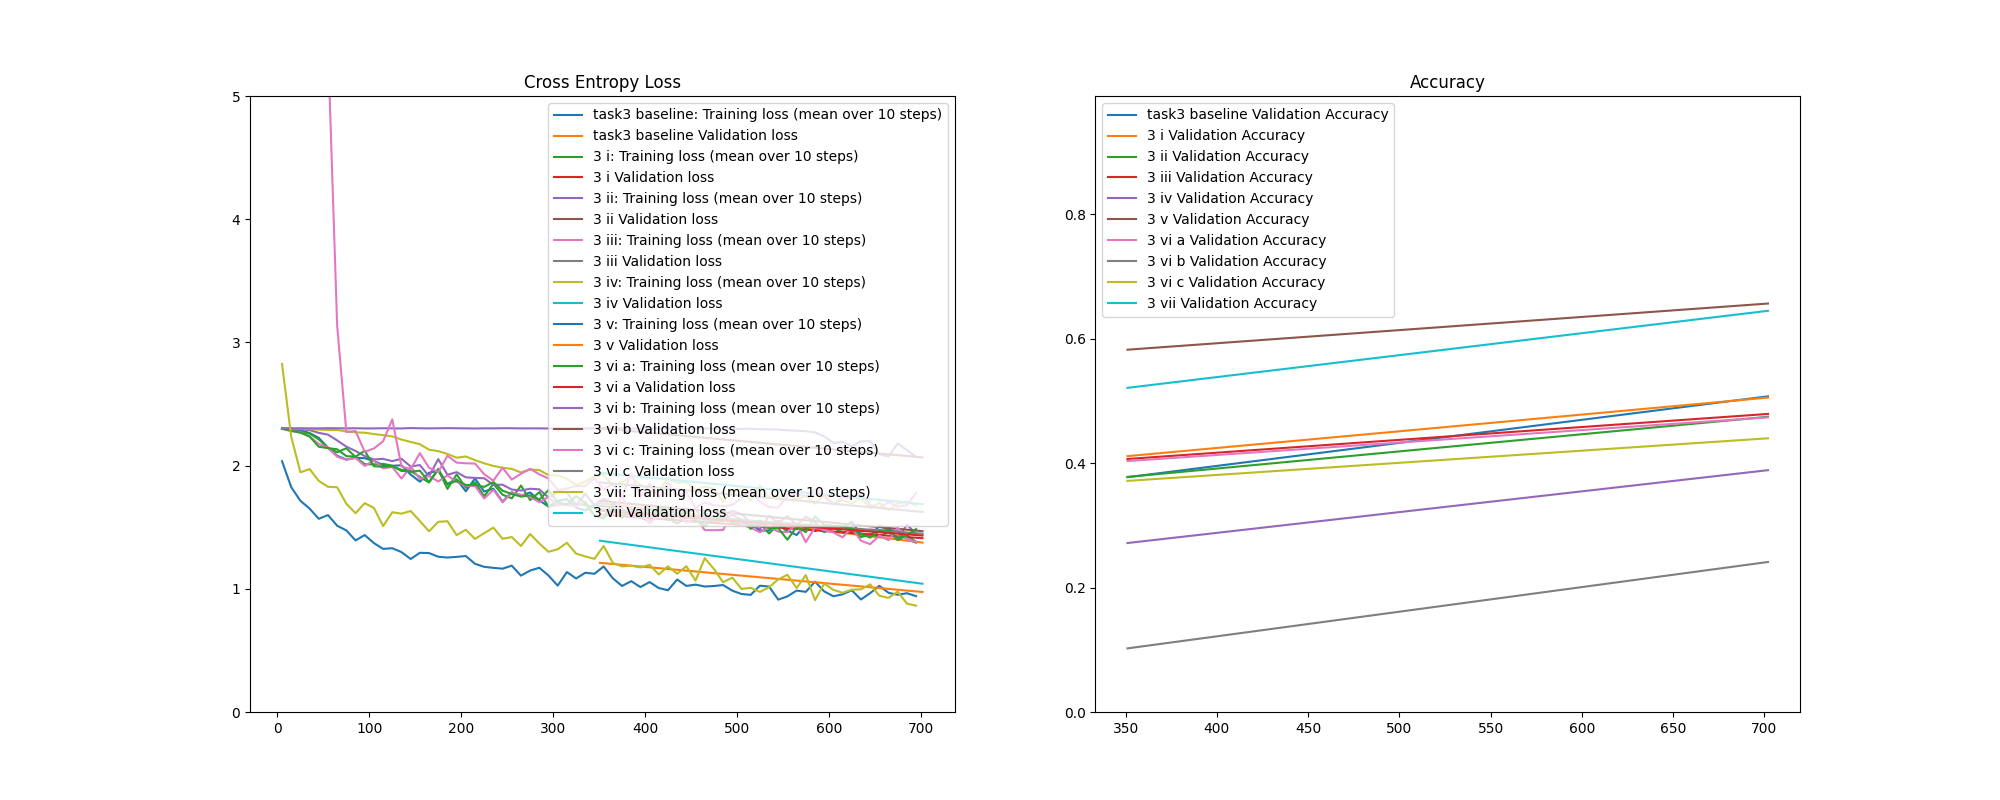
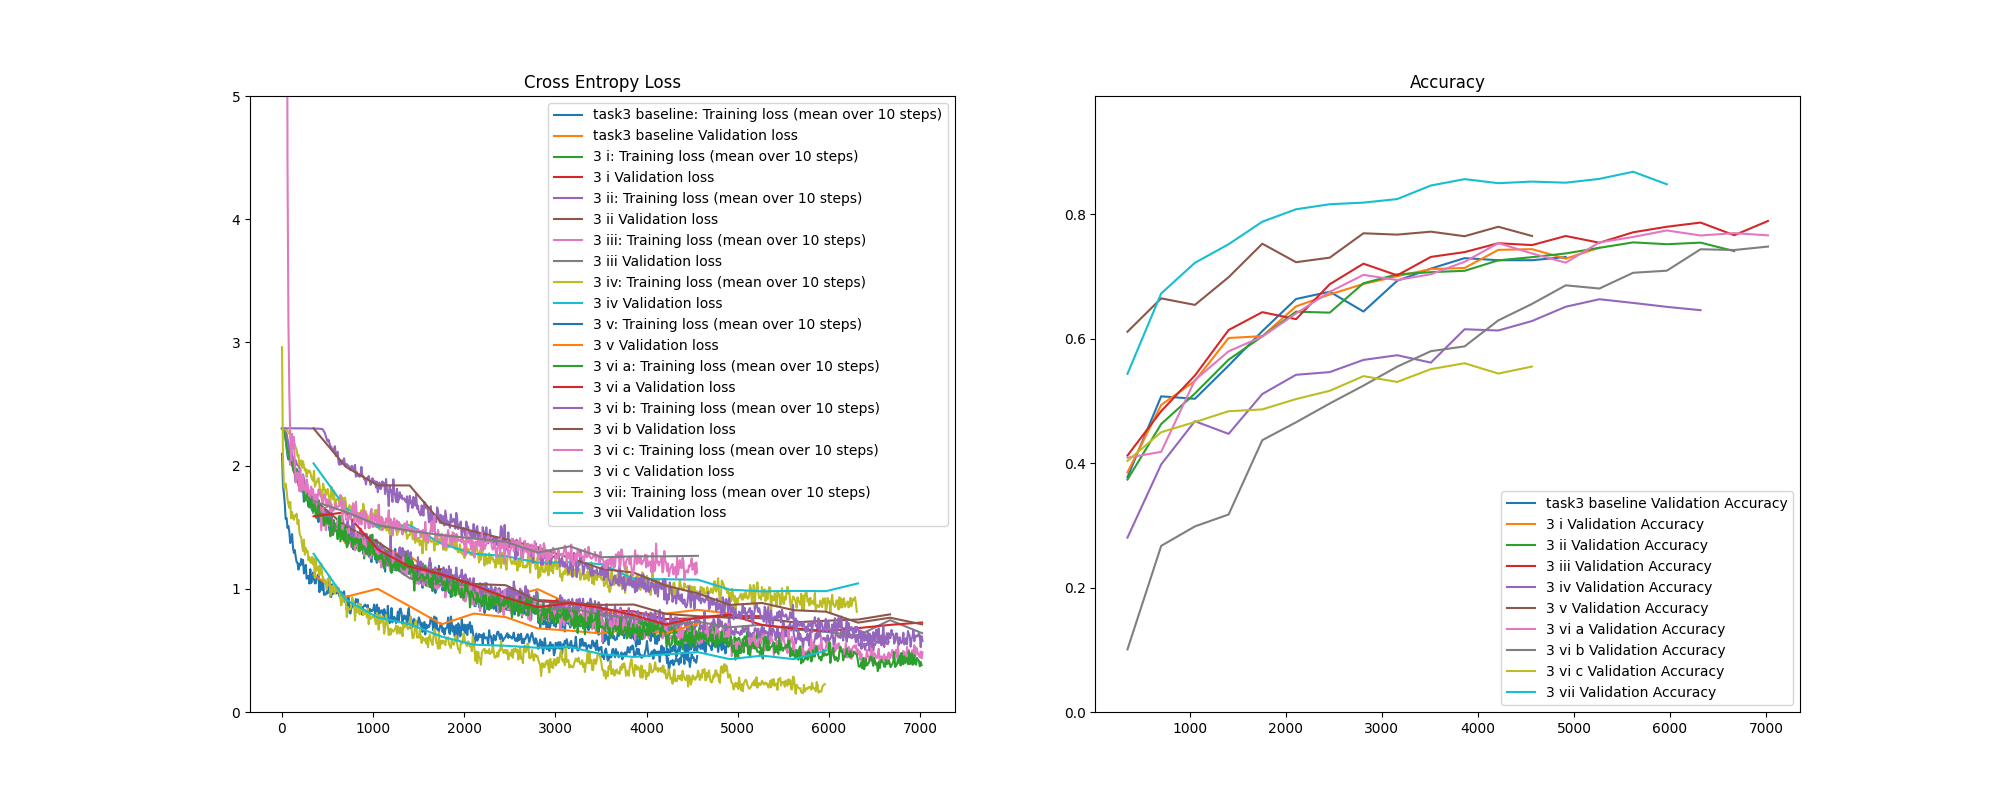
3 results

diff --git a/assignment3/task3.py b/assignment3/task3.py
@@ -556,7 +556,7 @@ def main():
     # You can try to change this and check if you still get the same result!
     utils.set_seed(0)
     print(f"Using device: {utils.get_device()}")
-    epochs = 1
+    epochs = 10
 
     all_trainers = []
     all_plot_names = []
